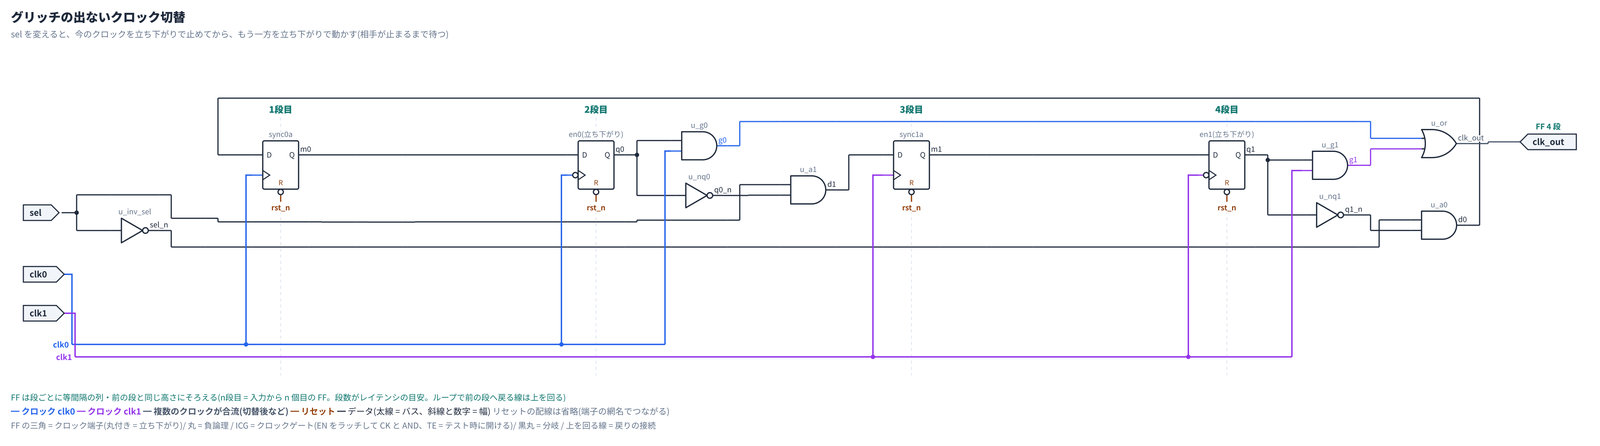
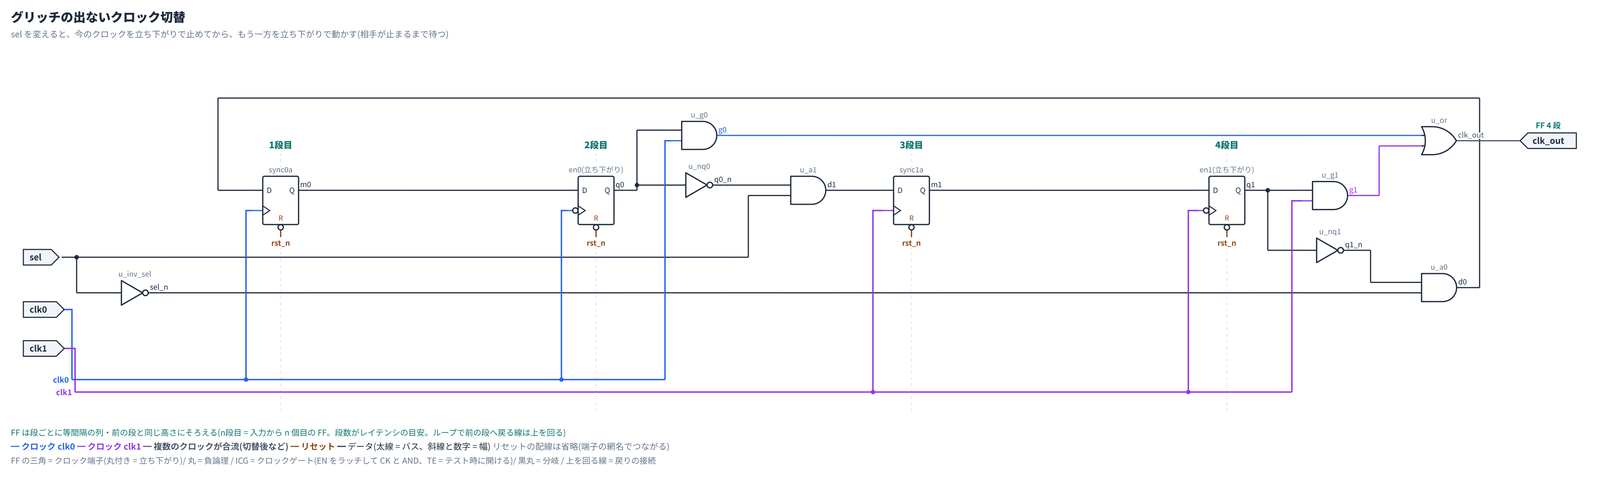
ゲート図: 配線が曲がらない配置(入力の入れ替え、まっすぐにする接続を優先度順に決めて塊にする、詰め、仕上げ、箱の端子を動かす)。曲がりの数を info に出す(R64)
Claude-Session: https://claude.ai/code/session_01XXd7JvWVmuTTSSCjMKzXau

diff --git a/scripts/gatediag.py b/scripts/gatediag.py
@@ -28,6 +28,9 @@ gate.yaml:
                                         # (描く時は下に水平の幹線を引き、縦に上げて短い水平で端子へ。--clock-wires / --reset-wires)
 
 配置: 左から右へ信号の流れ順に列を作り(長い接続は中継点を入れる)、列の間の通路に縦の幹線を引く。戻りの接続は上を回る。
+縦位置は曲がりを減らすように決める(R64): AND・OR 系の入力を駆動元の高さ順に入れ替え → まっすぐにする接続を優先度順に決めて
+塊にする(矛盾するものは採らない)→ 塊を並び順と間隔を守って置く → 塊を動かして、まっすぐな接続を増やす(14px 未満の段差は悪いとみなす)
+→ 箱(block)の端子を相手の高さへ動かす。図ごとに「曲がり: … まっすぐ n 本・曲がる m 本」を出す(GATEDIAG_NO_ALIGN=1 で前の方法)。
 クロックの網は色分け(元の端子ごと)、リセットの網は茶色。
 チェック(lint): [未接続] [複数駆動] [ループ](FF を通らない組み合わせのループ)[クロック](FF のクロックを論理で作っている:
   ICG を使う)[CDC](別のクロックの FF から同期化なしで受けている / 論理を通してから同期化している)
@@ -569,12 +572,277 @@ class Gate:
                     prev = u
         if self.stage:
             self.snap_rows(Y, G, cols, want, gap)
+        if self.s.get("layout", {}).get("align", True) and not os.environ.get("GATEDIAG_NO_ALIGN"):  # まっすぐにする接続を先に決めて、並べ直す(曲がりを減らす)
+            self.swap_inputs(Y, G, lvl)
+            self.align_place(Y, G, cols, lvl, gap, want, fixed={u: Y[u] for u in self.stage} if self.stage else {})
         for _ in range(3):                                 # ほかの網が動くと通れるようになることがあるので数回
             self.straighten(Y, G, cols, lvl)
+        if self.s.get("layout", {}).get("align", True) and not os.environ.get("GATEDIAG_NO_ALIGN"):
+            self.slide_pins(Y, G, lvl)
         mn = min(Y.values()) if Y else 0
         for u in Y:
             Y[u] -= mn
         self.Y = Y
+
+    # ---------- 曲がりを減らす配置 ----------
+    COMMUTE = {"and", "or", "nand", "nor", "xor", "xnor"}
+
+    def swap_inputs(self, Y, G, lvl):
+        """入れ替えてよい入力(AND・OR 系)は、駆動元の高さの順に端子へ割り当て直す(上の駆動元 → 上の入力)。交差と曲がりが減る"""
+        N = self.nodes
+        for u, n in N.items():
+            if n["kind"] not in self.COMMUTE:
+                continue
+            ins = sorted(pn for pn in n["pins"] if pn.startswith("i"))
+            def src_y(net):
+                if not net or is_const(net) or not self.drv.get(net):
+                    return 1e9
+                d = self.dummies.get((net, lvl[u] - 1))
+                a, apn = (d, "o") if d else self.drv[net][0]
+                return Y[a] + G[a][2][apn][1] if a in Y and apn in G[a][2] else 1e9
+            nets = [n["pins"][pn][1] for pn in ins]
+            new = sorted(nets, key=src_y)
+            if new == nets:
+                continue
+            for pn, net in zip(ins, new):
+                n["pins"][pn] = ("in", net)
+            for net in set(nets):                          # 網の行き先表(元の表と共有)も直す
+                lst = self.snk.get(net)
+                if lst is None:
+                    continue
+                keep = [x for x in lst if x[0] != u]
+                lst[:] = keep + [(u, pn) for pn, nt in zip(ins, new) if nt == net]
+
+    def align_edges(self, lvl):
+        """隣の列どうしの接続(駆動元の端子 → 行き先の端子)と、まっすぐにする優先度"""
+        N = self.nodes
+        E = {}
+        for net, ds in self.drv.items():
+            if not ds:
+                continue
+            a, apn = ds[0]
+            if a not in lvl:
+                continue
+            fwd = [(b, bpn) for b, bpn in self.snk.get(net, []) if b in lvl and lvl[b] > lvl[a]]
+            single = len(fwd) == 1
+            bus = self.width.get(net, 1) > 1
+            for b, bpn in fwd:
+                chain = [(a, apn)] + [(self.dummies[(net, c)], "io") for c in range(lvl[a] + 1, lvl[b])] + [(b, bpn)]
+                for (u, pu), (v, pv) in zip(chain, chain[1:]):
+                    pu = "o" if pu == "io" else pu
+                    pv = "i" if pv == "io" else pv
+                    long_ = N[u]["kind"] == "dummy" or N[v]["kind"] == "dummy"
+                    w = 1 + (3 if single else 0) + (3 if long_ else 0) + (1 if bus else 0)
+                    k = (u, pu, v, pv)
+                    E[k] = max(E.get(k, 0), w)
+        return E
+
+    def align_place(self, Y, G, cols, lvl, gap, want, fixed):
+        """曲がりを減らす縦位置(優先度つきの整列 + 詰め):
+        1. 隣の列どうしの接続に優先度を付ける(行き先が 1 つの網・長い配線・バスを優先)
+        2. 優先度の高い順に「まっすぐにする」と決め、まっすぐな接続でつながったセルを 1 つの塊(相対位置が固定)にする。
+           ほかの決定と矛盾する(重なる・並び順が入れ替わる・固定の FF とずれる)ものは採らない
+        3. 塊を、列の中の並び順と間隔を守って置く(行き先の高さに近づける)"""
+        N = self.nodes
+        order = {c: sorted(cols[c], key=lambda u: Y[u]) for c in cols}
+        pairs = []                                         # 列の中で上下に並ぶセル: (上, 下, 必要な間隔)
+        for c, us in order.items():
+            for a, b in zip(us, us[1:]):
+                pairs.append((a, b, G[a][1] + gap(a, b)))
+        nodes = list(Y)
+        parent = {u: u for u in nodes}
+        off = {u: 0.0 for u in nodes}                      # off[u] = Y[u] − Y[塊の代表]
+        def find(u):
+            if parent[u] == u:
+                return u, 0.0
+            r, o = find(parent[u])
+            parent[u], off[u] = r, off[u] + o
+            return r, off[u]
+        BIG = 1e6
+        def solve(extra_fix=None):
+            """塊ごとの位置の下限・上限(差の制約。正の閉路 = 矛盾 → None)"""
+            roots = {}
+            for u in nodes:
+                r, o = find(u)
+                roots.setdefault(r, []).append(u)
+            cons = []                                      # y[b] − y[a] >= w
+            for a, b, need in pairs:
+                ra, oa = find(a)
+                rb, ob = find(b)
+                w = oa + need - ob
+                if ra == rb:
+                    if w > 1e-6:
+                        return None
+                    continue
+                cons.append((ra, rb, w))
+            fx = {}
+            for u, y in list(fixed.items()) + list((extra_fix or {}).items()):
+                r, o = find(u)
+                v = y - o
+                if r in fx and abs(fx[r] - v) > 1e-6:
+                    return None
+                fx[r] = v
+            V = list(roots)
+            lo = {r: fx.get(r, -BIG) for r in V}
+            hi = {r: fx.get(r, BIG) for r in V}
+            for it in range(len(V) + 1):
+                ch = False
+                for a, b, w in cons:
+                    if lo[a] + w > lo[b] + 1e-6:
+                        if b in fx:
+                            return None
+                        lo[b] = lo[a] + w; ch = True
+                    if hi[b] - w < hi[a] - 1e-6:
+                        if a in fx:
+                            return None
+                        hi[a] = hi[b] - w; ch = True
+                if not ch:
+                    break
+            else:
+                return None
+            if any(lo[r] > hi[r] + 1e-6 for r in V):
+                return None
+            return roots, cons, fx, lo, hi
+        E = self.align_edges(lvl)
+        used = set()
+        cur = lambda u, pn: Y[u] + G[u][2][pn][1]
+        for (u, pu, v, pv), w in sorted(E.items(), key=lambda kv: (-kv[1], abs(cur(kv[0][0], kv[0][1]) - cur(kv[0][2], kv[0][3])))):
+            if (u, pu, "R") in used or (v, pv, "L") in used or pu not in G[u][2] or pv not in G[v][2]:
+                continue
+            ru, ou = find(u)
+            rv, ov = find(v)
+            d = (ou + G[u][2][pu][1]) - (ov + G[v][2][pv][1])     # y[rv] = y[ru] + d にすれば、まっすぐ
+            if ru == rv:
+                if abs(d) < 1e-6:
+                    used |= {(u, pu, "R"), (v, pv, "L")}
+                continue
+            snap = (dict(parent), dict(off))
+            parent[rv], off[rv] = ru, d
+            if solve() is None:
+                parent.clear(); parent.update(snap[0]); off.clear(); off.update(snap[1])
+                continue
+            used |= {(u, pu, "R"), (v, pv, "L")}
+        res = solve()
+        if res is None:
+            return
+        roots, cons, fx, lo, hi = res
+        # 塊を置く: 固定の塊から、大きい塊から順に。望む高さ = 今の位置(まっすぐでない接続の行き先に寄せた位置)の平均
+        want_y = {}
+        for r, us in roots.items():
+            vs = [Y[u] - find(u)[1] for u in us]
+            want_y[r] = sum(vs) / len(vs)
+        done = {}
+        for r in sorted(roots, key=lambda r: (r not in fx, -len(roots[r]), want_y[r])):
+            res = solve({roots[q][0]: done[q] + find(roots[q][0])[1] for q in done})    # 置いた塊を固定して、残りの範囲を求め直す
+            if res is None:
+                break
+            _, _, _, lo, hi = res
+            y = fx.get(r, min(max(want_y[r], lo[r]), hi[r]))
+            done[r] = y
+        for r in roots:
+            if r not in done:
+                done[r] = min(max(want_y[r], lo.get(r, -BIG)), hi.get(r, BIG))
+        for u in nodes:
+            rt, o = find(u)
+            Y[u] = done[rt] + o
+        # 仕上げ: 塊を 1 つずつ、まっすぐになる接続がいちばん多い高さへ動かす(小さい段差 = 14px 未満は、はっきり曲がるより悪いとみなす)
+        JOG = 14
+        def score():
+            sc = 0.0
+            for (u, pu, v, pv), w in E.items():
+                if pu in G[u][2] and pv in G[v][2]:
+                    d = abs(Y[u] + G[u][2][pu][1] - Y[v] - G[v][2][pv][1])
+                    sc += w if d < .5 else (-w if d < JOG else 0)
+            return sc
+        members = collections.defaultdict(list)
+        for u in nodes:
+            members[find(u)[0]].append(u)
+        above = {b: (a, need) for a, b, need in pairs}
+        below = {a: (b, need) for a, b, need in pairs}
+        def fits(us, dy):
+            ss = set(us)
+            for u in us:
+                if u in above and above[u][0] not in ss and Y[u] + dy < Y[above[u][0]] + above[u][1] - 1e-6:
+                    return False
+                if u in below and below[u][0] not in ss and Y[below[u][0]] < Y[u] + dy + below[u][1] - 1e-6:
+                    return False
+            return True
+        for _ in range(3):
+            moved = False
+            for r, us in members.items():
+                if any(u in fixed for u in us):
+                    continue
+                ss = set(us)
+                cands = set()
+                for (u, pu, v, pv) in E:
+                    if (u in ss) != (v in ss) and pu in G[u][2] and pv in G[v][2]:
+                        dyy = (Y[v] + G[v][2][pv][1]) - (Y[u] + G[u][2][pu][1])
+                        cands.add(round(dyy if u in ss else -dyy, 3))
+                base = score()
+                best = (base, 0.0)
+                for dy in cands:
+                    if abs(dy) < .5 or not fits(us, dy):
+                        continue
+                    for u in us:
+                        Y[u] += dy
+                    sc = score()
+                    for u in us:
+                        Y[u] -= dy
+                    if sc > best[0] + 1e-6:
+                        best = (sc, dy)
+                if best[1]:
+                    for u in us:
+                        Y[u] += best[1]
+                    moved = True
+            if not moved:
+                break
+        self.aligned = used
+
+    def slide_pins(self, Y, G, lvl):
+        """箱(block)の端子は辺の上を動かせる: つながる相手の端子と同じ高さに動かして、まっすぐにする(辺の端から 8px、端子どうし 12px あける)"""
+        N = self.nodes
+        E = self.align_edges(lvl)
+        for u, n in N.items():
+            if n["kind"] != "block":
+                continue
+            w, h, P = G[u]
+            _, _, PB = n["_body"]
+            for side in ("L", "R"):
+                pins = [pn for pn, (dx, dy, sd) in P.items() if sd == side]
+                want = {}
+                for (a, pa, b, pb), wt in E.items():
+                    if side == "L" and b == u and pb in pins and pa in G[a][2]:
+                        want[pb] = max(want.get(pb, (0, 0)), (wt, Y[a] + G[a][2][pa][1] - Y[u]))
+                    if side == "R" and a == u and pa in pins and pb in G[b][2]:
+                        want[pa] = max(want.get(pa, (0, 0)), (wt, Y[b] + G[b][2][pb][1] - Y[u]))
+                taken = []
+                for pn in sorted(pins, key=lambda q: -want.get(q, (0, 0))[0]):
+                    dy = P[pn][1]
+                    if pn in want:
+                        t = want[pn][1]
+                        if 8 <= t <= h - 8 and all(abs(t - q) >= 12 for q in taken):
+                            dy = t
+                    if any(abs(dy - q) < 12 for q in taken):    # ぶつかる時は元の位置
+                        dy = P[pn][1]
+                    taken.append(dy)
+                    P[pn] = (P[pn][0], dy, side)
+                    if pn in PB:
+                        PB[pn] = (PB[pn][0], dy, side)
+
+    def bends(self):
+        """曲がりの数: 通路ごとの網のうち、縦の線があるもの(= 2 回以上曲がる)と、角の数"""
+        segs = bent = corners = 0
+        for c, nets in self.parts.items():
+            for net, pp in nets.items():
+                pts = [p for p in pp["src"] + pp["dst"]]
+                if not pts:
+                    continue
+                segs += 1
+                ys = [self.py(p) for p in pts]
+                if max(ys) - min(ys) > .5:
+                    bent += 1
+                    corners += sum(1 for y in ys if abs(y - min(ys)) < .5 or abs(y - max(ys)) < .5)
+        return segs, bent, corners
 
     def straighten(self, Y, G, cols, lvl):
         """同じ網の中継点を同じ高さにそろえる(駆動元のピン、行き先のピンの高さのうち、通れる所)"""
@@ -835,7 +1103,7 @@ class Gate:
             ends = []
             for lo, hi, net in items:
                 for i, e in enumerate(ends):
-                    if e < lo - 8:
+                    if e < lo - 40:                         # 同じ縦の線に見えないよう、間を 40px 以上あける時だけ同じ位置を使う
                         ends[i] = hi
                         tracks[(c, net)] = i
                         break
@@ -1005,6 +1273,8 @@ class Gate:
     def _svg(self, N0, D0, S0):
         self.layout()
         self.route()
+        sg, bt, cn = self.bends()
+        self.info.append(f"[info] 曲がり: 通路を渡る接続 {sg} 本のうち まっすぐ {sg - bt} 本・曲がる {bt} 本(角 {cn} 個)")
         N, Y = self.nodes, self.Y
         ttl = self.s.get("title", "ゲートレベル図")
         self.top = 70 + (22 if self.s.get("note") else 0) + (16 if self.s.get("groups") else 0) + self.nlanes * 14 + (20 if self.nlanes else 0) \

diff --git a/diagrams/gate-level/GUIDE.md b/diagrams/gate-level/GUIDE.md
@@ -48,3 +48,18 @@
 | [クロック] | FF/ラッチのクロックを論理ゲートで作っている(ICG を使う) |
 | [CDC] | 別のクロックの FF(や `async: true` の端子)から 1 段で受けている / 論理を通してから同期化している |
 | [未定義] | 使えない type |
+
+## 配線をできるだけ曲げない配置(R64)
+縦位置は「隣の高さの平均」ではなく、**まっすぐにする接続を先に決めてから**置く。
+
+1. **入力の入れ替え**: AND・OR・NAND・NOR・XOR・XNOR の入力は、駆動元の高さの順に端子へ割り当て直す(交差と曲がりが減る)。
+2. **優先度**: 隣の列どうしの接続ごとに、行き先が 1 つの網 +3、中継点を通る長い配線 +3、バス +1。
+3. **まっすぐにする接続を決める**: 優先度の高い順に採り、まっすぐな接続でつながったセルを相対位置が固定の「塊」にする。
+   重なる・列の中の並び順が入れ替わる・行にそろえた FF とずれる決定は採らない(差の制約に正の閉路があれば矛盾)。
+4. **詰める**: 塊を列の並び順と間隔を守って置く。
+5. **仕上げ**: 塊を 1 つずつ、まっすぐな接続がいちばん多い高さへ動かす。14px 未満の小さい段差は、はっきり曲がるより悪いとみなす。
+6. **箱の端子を動かす**: 加算器・乗算器などの箱(block)は端子を辺の上で動かし、相手と同じ高さにする。
+7. 同じ通路で縦の線の位置を別の網と使い回すのは、間が 40px 以上ある時だけ。
+
+図を描くたびに `[info] 曲がり: 通路を渡る接続 N 本のうち まっすぐ n 本・曲がる m 本(角 k 個)` が出る。
+配置を変えたら、前後でこの数を比べる(`GATEDIAG_NO_ALIGN=1` で前の方法の数が出る)。例での効果(角の数): クロック切替 34 → 18、パイプライン 18 → 4、リセット同期化 8 → 4、クロックゲート 4 → 2。
